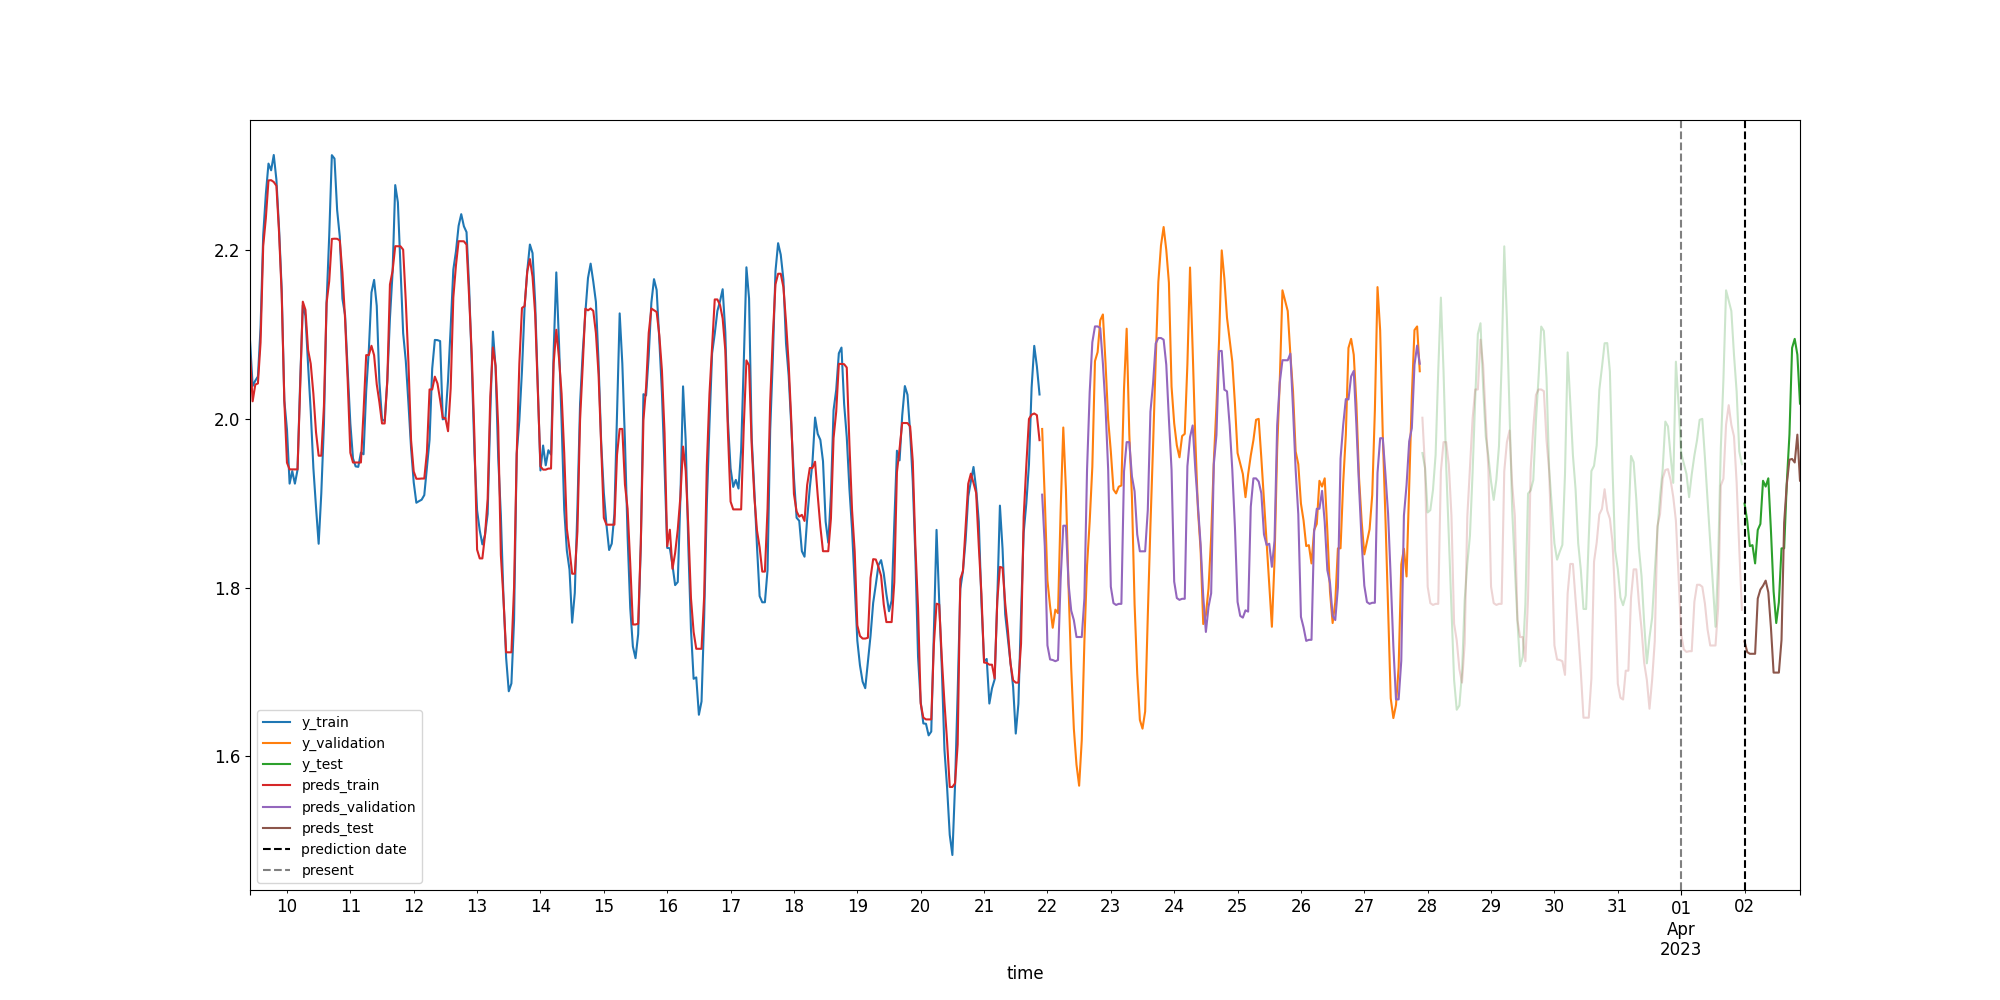
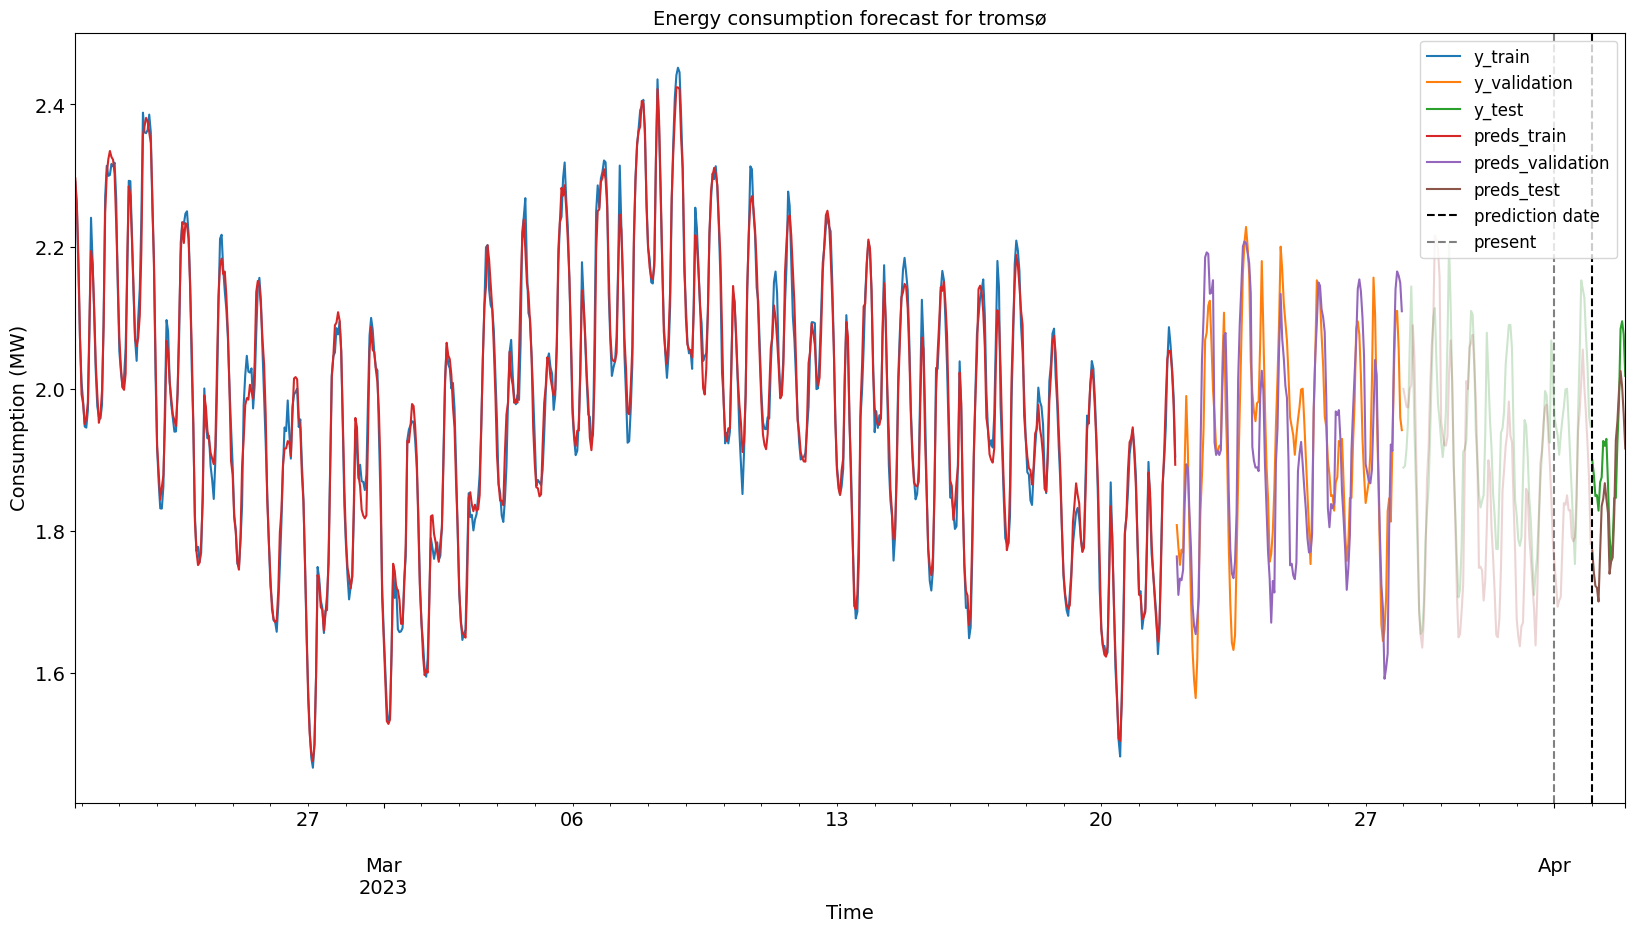
made plots prettier

diff --git a/scripts/xgboost_forecast copy 2.py b/scripts/xgboost_forecast copy 2.py
@@ -2,7 +2,13 @@ import pandas as pd
 import matplotlib
 import matplotlib.pyplot as plt
 import xgboost
+import json
+from tqdm import tqdm
+from sklearn.metrics import mean_absolute_error, mean_squared_error, mean_absolute_percentage_error
 from pathlib import Path
+from pprint import pprint
+
+pd.options.mode.chained_assignment = None
 
 
 matplotlib.rcParams['axes.labelsize'] = 12
@@ -22,7 +28,210 @@ def featurize(df: pd.DataFrame):
     return df
 
 
+def train_and_plot_with_most_recent_data(
+        df_city,
+        max_depth,
+        lr,
+        train_size,
+        validation_size=6*24,
+        test_size=6*24-2): #Subtract two hours to ensure test and validation sets start at midnight
+
+    df_city = featurize(df_city)
+
+    features = ["temperature", "dayofweek",
+                "dayofyear", "month", "hour", "year"]
+    target = "consumption"
+
+    size = len(df_city.index)
+
+    train_df = df_city[size-train_size-test_size -
+                       validation_size:size-test_size-validation_size]
+    validation_df = df_city[size-test_size-validation_size:size-test_size]
+    test_df = df_city[size-test_size:]
+
+    X_train, y_train = train_df[features], train_df[target]
+    X_validation, y_validation = validation_df[features], validation_df[target]
+    X_test, y_test = test_df[features], test_df[target]
+
+    model = xgboost.XGBRegressor(base_score=0.5, booster="gbtree",
+                                 n_estimators=1000,
+                                 early_stopping_rounds=50,
+                                 objective="reg:squarederror",
+                                 max_depth=max_depth,
+                                 learning_rate=lr)
+
+    model.fit(X_train, y_train,
+              eval_set=[(X_train, y_train), (X_validation, y_validation)],
+              verbose=100)
+
+    train_preds = pd.DataFrame(
+        index=X_train.index, data=model.predict(X_train))
+    validation_preds = pd.DataFrame(
+        index=X_validation.index, data=model.predict(X_validation))
+    test_preds = pd.DataFrame(
+        index=X_test.index, data=model.predict(X_test)
+    )
+
+
+    ax = y_train.plot()
+    y_validation.plot(ax=ax)
+    y_test[-22:].plot(ax=ax)
+    train_preds.plot(ax=ax)
+    validation_preds.plot(ax=ax)
+    test_preds[-22:].plot(ax=ax)    
+    
+    ax.axvline(y_test.index[-22], color="black", ls="--")
+    ax.axvline(y_test.index[-22-24], color="grey", ls="--")
+    y_test[:-22].plot(ax=ax, alpha=0.2, color='green')
+    test_preds[:-22].plot(ax=ax, alpha=0.2, color='brown')
+
+    ax.legend(["y_train", "y_validation", "y_test", "preds_train",
+                "preds_validation", "preds_test", 'prediction date', 'present'], fontsize=12)
+    
+    plt.title(f"Energy consumption forecast for {city}", fontsize=14)
+    ax.set_xlabel("Time", fontsize=14) 
+    ax.set_ylabel("Consumption (MW)", fontsize=14)
+    ax.tick_params(axis='x', which='major', labelsize=14)
+    ax.tick_params(axis='x', which='minor', labelsize=14)
+
+    # Change font size for the numbers on the y-axis (major and minor ticks)
+    ax.tick_params(axis='y', which='major', labelsize=14)
+    ax.tick_params(axis='y', which='minor', labelsize=14) 
+    plt.savefig(out_dir / f"{city}_forecast.png", bbox_inches='tight')
+    plt.clf()
+    
+
+    metrics = {
+        "train": {
+            "mae": mean_absolute_error(y_train, train_preds),
+            "rmse": mean_squared_error(y_train, train_preds) ** (1/2),
+            "mape": mean_absolute_percentage_error(y_train, train_preds)
+        },
+        "validation": {
+            "mae": mean_absolute_error(y_validation, validation_preds),
+            "rmse": mean_squared_error(y_validation, validation_preds) ** (1/2),
+            "mape": mean_absolute_percentage_error(y_validation, validation_preds)
+        },
+        "test": {
+            "mae": mean_absolute_error(y_test, test_preds),
+            "rmse": mean_squared_error(y_test, test_preds) ** (1/2),
+            "mape": mean_absolute_percentage_error(y_test, test_preds)
+        }
+    }
+
+    return metrics
+
+
+def train_and_evaluate(train_df, validation_df, max_depth, lr, plot=False):
+
+    train_df, validation_df = featurize(train_df), featurize(validation_df)
+
+    features = ["temperature", "dayofweek",
+                "dayofyear", "month", "hour", "year"]
+    target = "consumption"
+
+    X_train, y_train = train_df[features], train_df[target]
+    X_validation, y_validation = validation_df[features], validation_df[target]
+
+    model = xgboost.XGBRegressor(base_score=0.5, booster="gbtree",
+                                 n_estimators=1000,
+                                 early_stopping_rounds=50,
+                                 objective="reg:squarederror",
+                                 max_depth=max_depth,
+                                 learning_rate=lr,
+                                 )
+
+    model.fit(X_train, y_train,
+              eval_set=[(X_train, y_train), (X_validation, y_validation)], verbose=0)
+
+    train_preds = pd.DataFrame(
+        index=X_train.index, data=model.predict(X_train))
+    validation_preds = pd.DataFrame(
+        index=X_validation.index, data=model.predict(X_validation))
+
+    metrics = {
+        "train": {
+            "mae": mean_absolute_error(y_train, train_preds),
+            "rmse": mean_squared_error(y_train, train_preds) ** (1/2),
+            "mape": mean_absolute_percentage_error(y_train, train_preds)
+        },
+        "validation": {
+            "mae": mean_absolute_error(y_validation, validation_preds),
+            "rmse": mean_squared_error(y_validation, validation_preds) ** (1/2),
+            "mape": mean_absolute_percentage_error(y_validation, validation_preds)
+        },
+    }
+
+    return metrics
+
+
+def sliding_window_evaluate(
+        df_city,
+        max_depths,
+        lrs,
+        train_sizes,
+        target="rmse",
+        validation_size=6*24,
+        test_size=6*24,
+        data_start_percentage=0.9
+):
+    """
+    Function for sliding window cross validation. 
+    The validation and train sets are time shifted, starting
+    at data_start_percentage * total data points, and ending just before 
+    the validation set starts overlapping with the final test set (most recent data).
+    The total loss for a set of hyperparams is the average of losses over the different 
+    time intervals. 
+    The function tries all hyperparam values supplied, and returns the best ones.
+    """
+
+    size = len(df_city.index)
+
+    min_avg_val_loss = float("inf")
+    top_params = {
+        "max_depth": max_depths[0],
+        "lr": lrs[0],
+        "train_size": train_sizes[0]
+    }
+
+    progress_bar = tqdm(total=len(max_depths)*len(lrs)*len(train_sizes))
+
+    for md in max_depths:
+        for lr in lrs:
+            for train_size in train_sizes:
+
+                avg_valid_loss = 0
+                data_start = int(data_start_percentage * size)
+
+                while data_start < size - test_size - validation_size - train_size:
+
+                    train_df = df_city.iloc[data_start:data_start+train_size]
+                    valid_df = df_city.iloc[data_start +
+                                            train_size:data_start+train_size+validation_size]
+
+                    metrics = train_and_evaluate(train_df, valid_df, md, lr)
+                    avg_valid_loss += metrics["validation"][target]
+                    data_start += train_size
+
+                avg_valid_loss /= (size - test_size -
+                                   validation_size) // train_size
+
+                if avg_valid_loss < min_avg_val_loss:
+                    min_avg_val_loss = avg_valid_loss
+                    top_params = {
+                        "max_depth": md,
+                        "lr": lr,
+                        "train_size": train_size
+                    }
+
+                progress_bar.update(1)
+
+    return top_params
+
+
 if __name__ == "__main__":
+
+    center_and_norm = True
 
     out_dir = Path("results2")
     out_dir.mkdir(exist_ok=True)
@@ -31,64 +240,40 @@ if __name__ == "__main__":
     df["time"] = pd.to_datetime(df["time"])
     df = df.set_index(["location", "time"]).sort_index()
 
+    metrics = {}
+
     for city in df.index.get_level_values("location").unique().tolist():
 
         print(f"Forecasting consumption for {city}")
 
-        df_city = featurize(df.loc[city])
+        print("Finding the best hyperparams through sliding window cross validation...")
 
-        features = ["temperature", "dayofweek",
-                    "dayofyear", "month", "hour", "year"]
-        target = "consumption"
-
-        size = len(df_city.index)
-        train_size = 300
-        validation_size = 6*24
-        test_size = 6*24
-
-        train_df = df_city[size-train_size-test_size -
-                           validation_size:size-test_size-validation_size]
-        validation_df = df_city[size-test_size-validation_size:size-test_size]
-        test_df = df_city[size-test_size:]
-
-        X_train, y_train = train_df[features], train_df[target]
-        X_validation, y_validation = validation_df[features], validation_df[target]
-        X_test, y_test = test_df[features], test_df[target]
-
-        model = xgboost.XGBRegressor(base_score=0.5, booster="gbtree",
-                                     n_estimators=1000,
-                                     early_stopping_rounds=50,
-                                     objective="reg:squarederror",
-                                     max_depth=3,
-                                     learning_rate=0.01)
-
-        model.fit(X_train, y_train,
-                  eval_set=[(X_train, y_train), (X_validation, y_validation)],
-                  verbose=100)
-
-        train_preds = pd.DataFrame(
-            index=X_train.index, data=model.predict(X_train))
-        validation_preds = pd.DataFrame(
-            index=X_validation.index, data=model.predict(X_validation))
-        test_preds = pd.DataFrame(
-            index=X_test.index, data=model.predict(X_test)
+        best_params = sliding_window_evaluate(
+            df.loc[city],
+            max_depths=[3],  # [3, 5, 7],
+            lrs=[0.1],  # [0.1, 0.01, 0.001],
+            train_sizes=[500, 700, 900]
         )
 
-        ax = y_train.plot()
-        y_validation.plot(ax=ax)
-        y_test[-22:].plot(ax=ax)
-        train_preds.plot(ax=ax)
-        validation_preds.plot(ax=ax)
-        test_preds[-22:].plot(ax=ax)    
-       
-        ax.axvline(y_test.index[-22], color="black", ls="--")
-        ax.axvline(y_test.index[-22-24], color="grey", ls="--")
-        y_test[:-22].plot(ax=ax, alpha=0.2, color='green')
-        test_preds[:-22].plot(ax=ax, alpha=0.2, color='brown')
+        print("Best params:")
 
-        ax.legend(["y_train", "y_validation", "y_test", "preds_train",
-                  "preds_validation", "preds_test", 'prediction date', 'present'])
-    
-        plt.savefig(out_dir / f"{city}_forecast.png")
-        plt.clf()
-        
+        print(best_params)
+
+        print("Training, evaluating, and plotting for the most recent data available...")
+
+        metrics = train_and_plot_with_most_recent_data(
+            df.loc[city],
+            best_params["max_depth"],
+            best_params["lr"],
+            best_params["train_size"],
+        )
+
+        print("Final metrics:")
+
+        pprint(metrics)
+
+        with open(out_dir / f"metrics_{city}.json", "w") as mfile:
+            json.dump(metrics, mfile)
+
+        with open(out_dir / f"best_params_{city}.json", "w") as pfile:
+            json.dump(best_params, pfile)

diff --git a/scripts/xgboost_forecast.py b/scripts/xgboost_forecast.py
@@ -82,9 +82,17 @@ def train_and_plot_with_most_recent_data(
     ax.axvline(y_test.index[0], color="black", ls="--")
 
     ax.legend(["y_train", "y_validation", "y_test", "preds_train",
-               "preds_validation", "preds_test", "start of validation set", "start of test set"])
-    plt.title(f"Energy consumption forecast for {city}")
-    plt.savefig(out_dir / f"{city}_forecast.png")
+               "preds_validation", "preds_test", "start of validation set", "start of test set"], fontsize=12)
+    plt.title(f"Energy consumption forecast for {city}", fontsize=14)
+    ax.set_xlabel("Time", fontsize=14) 
+    ax.set_ylabel("Consumption (MW)", fontsize=14)
+    ax.tick_params(axis='x', which='major', labelsize=14)
+    ax.tick_params(axis='x', which='minor', labelsize=14)
+
+    # Change font size for the numbers on the y-axis (major and minor ticks)
+    ax.tick_params(axis='y', which='major', labelsize=14)
+    ax.tick_params(axis='y', which='minor', labelsize=14) 
+    plt.savefig(out_dir / f"{city}_forecast.png", bbox_inches='tight')
     plt.clf()
 
     metrics = {
